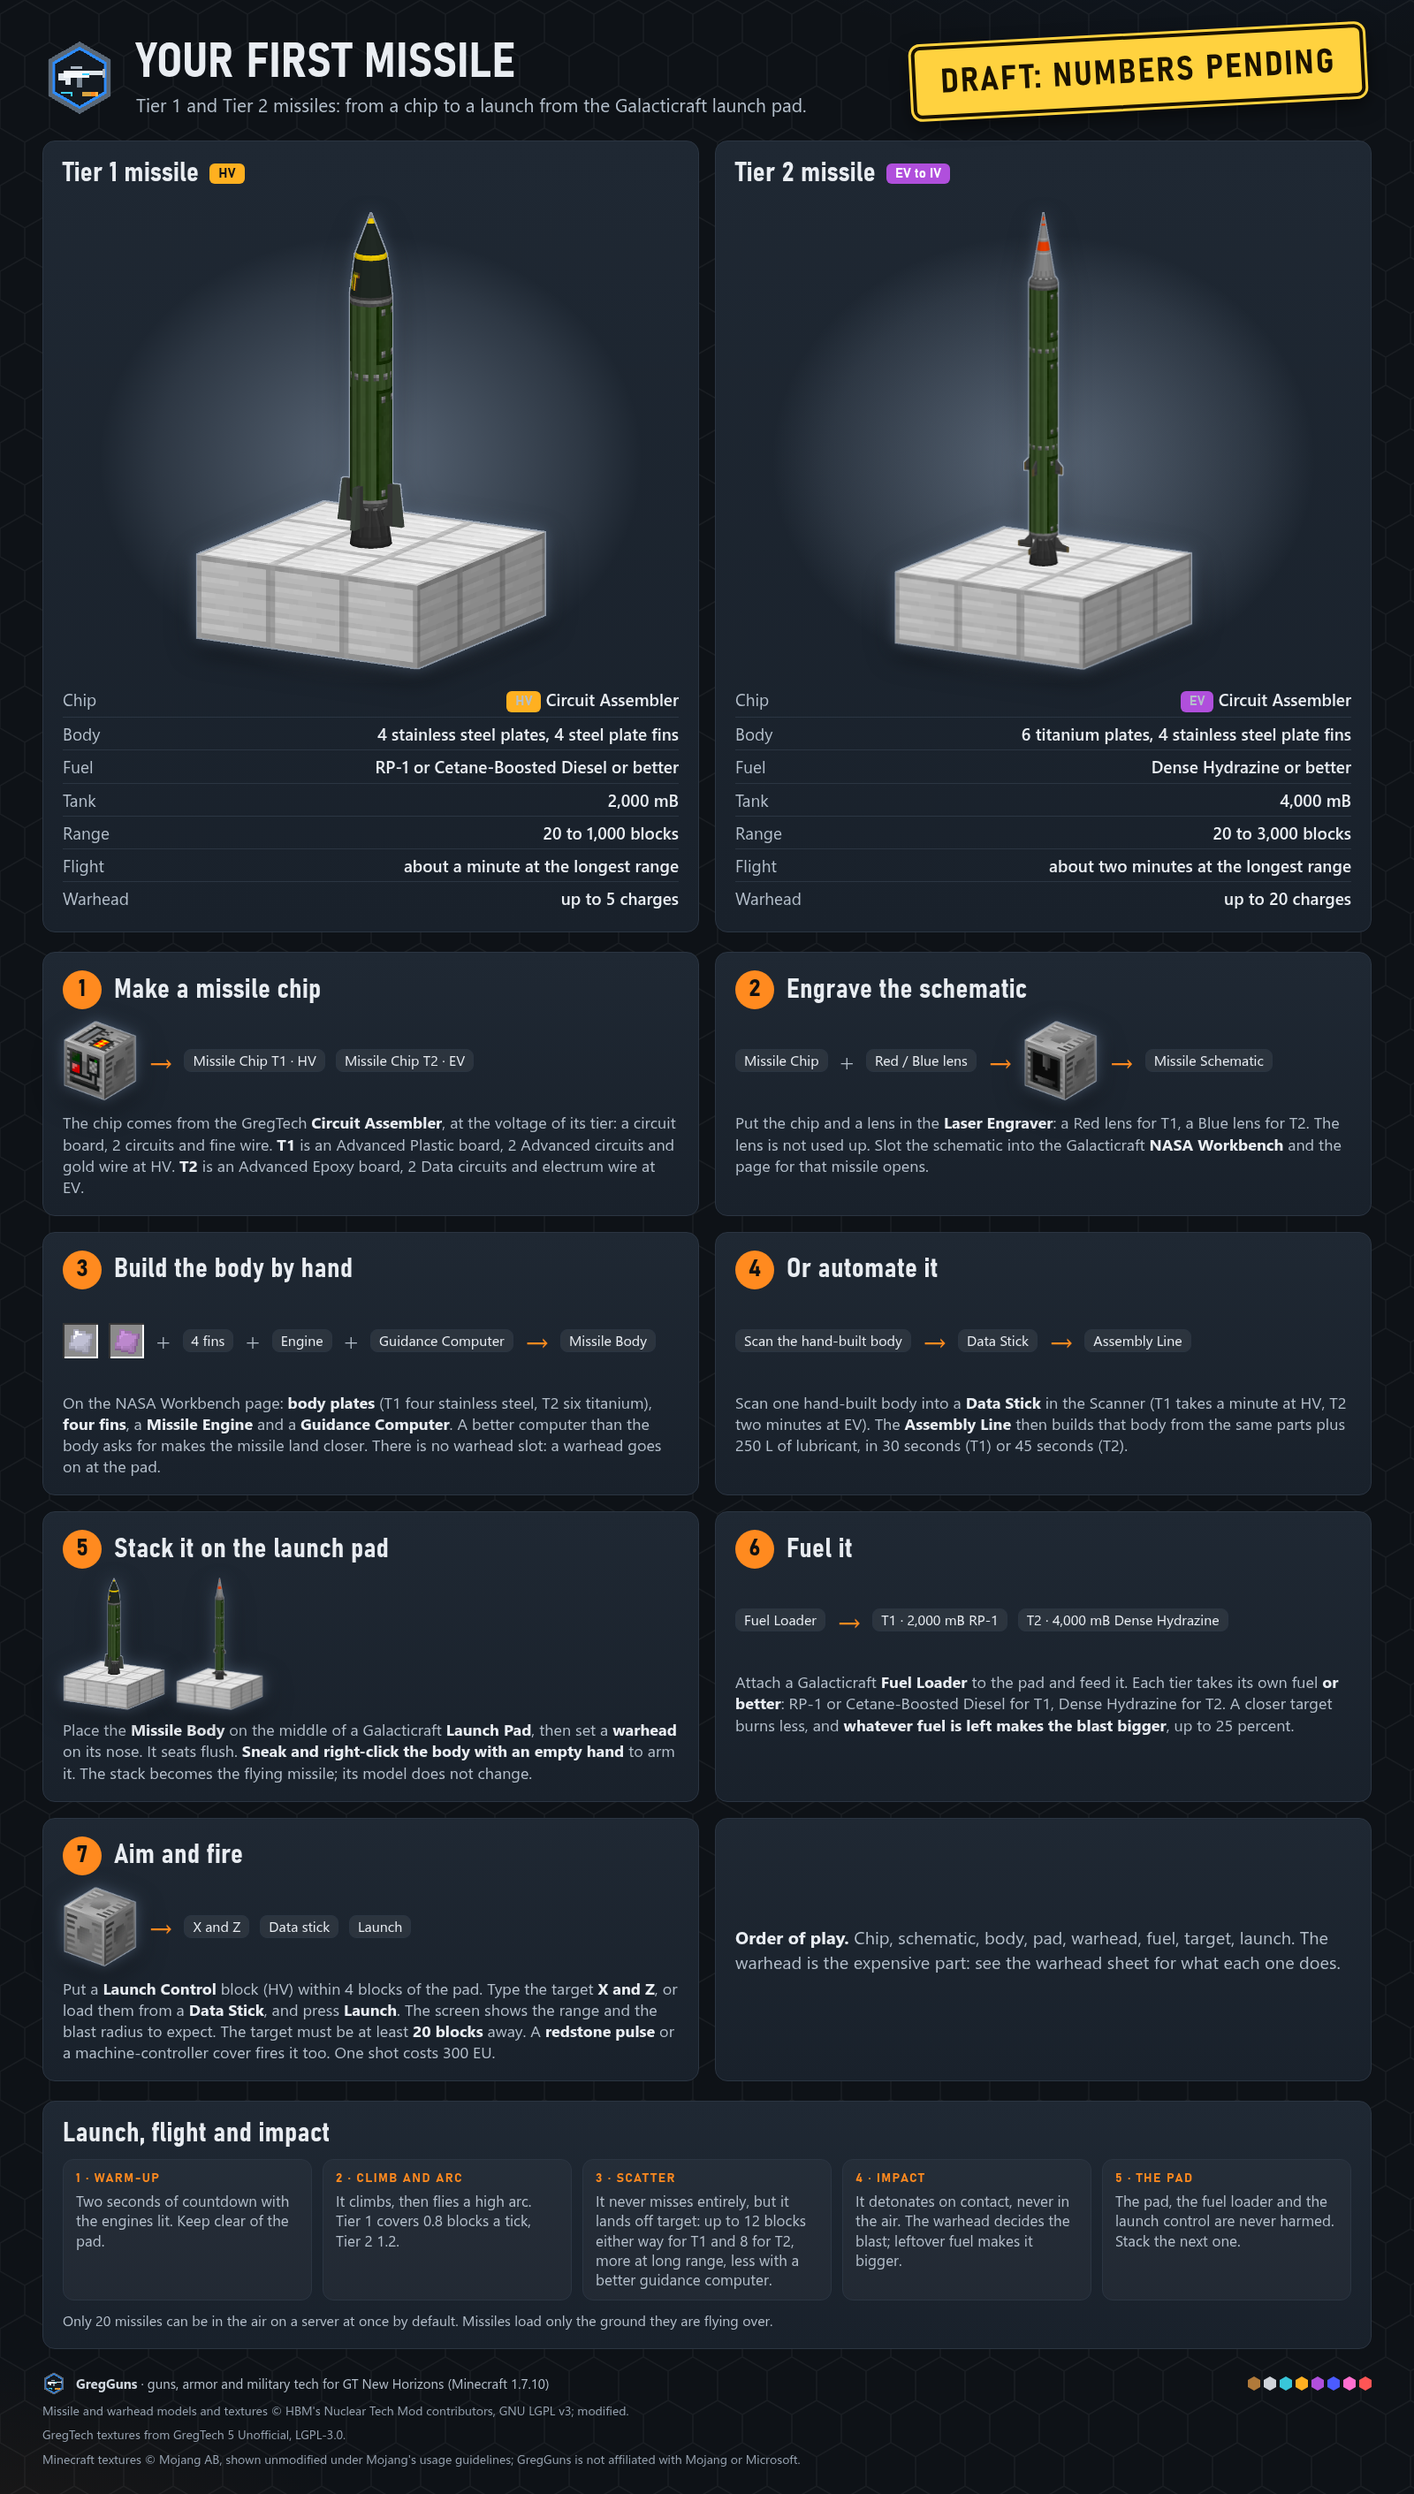
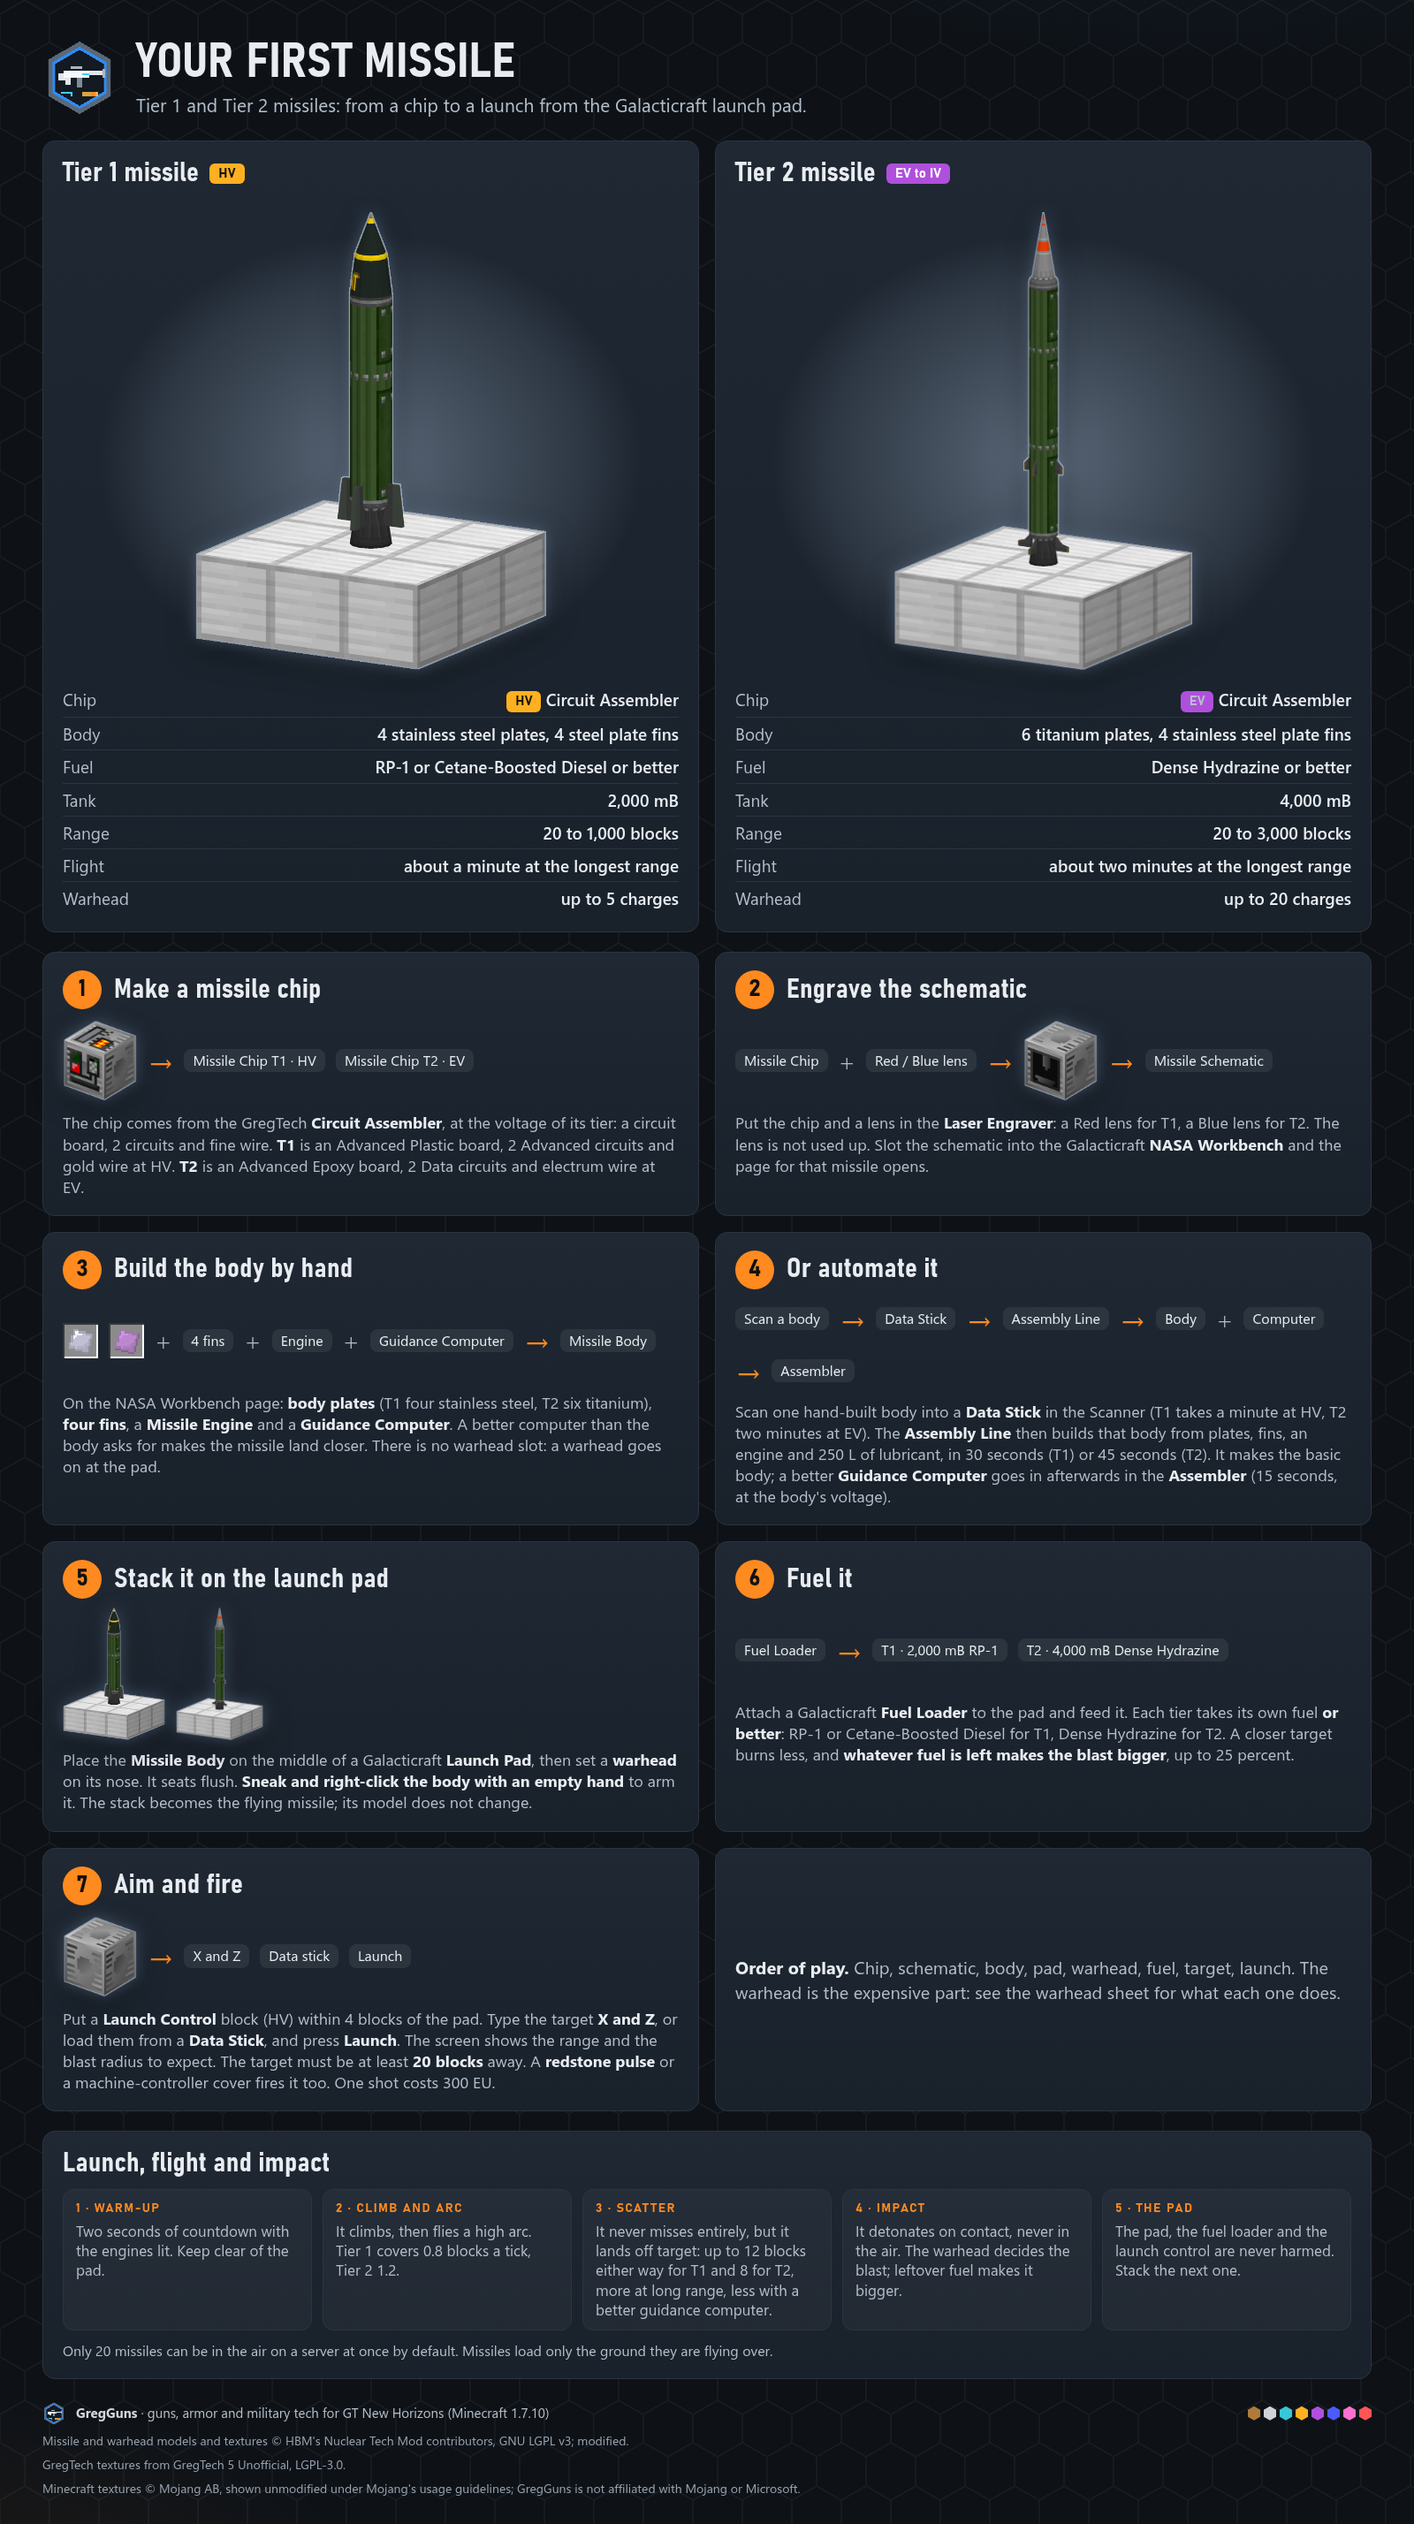
ICBM I2 fix: final icbm-first-missile sheet (numbers from code, stamp removed, Assembler fit), quest text

diff --git a/tools/asset-gen/infographics/pages_icbm_missile.py b/tools/asset-gen/infographics/pages_icbm_missile.py
@@ -1,8 +1,8 @@
 """The icbm-first-missile guide sheet: from a missile chip to the first launch from the Galacticraft pad (T1 and T2).
 
 The missile models are the shipped OBJ files (body plus warhead, the warhead seated on the body's nose exactly as the
-game seats it), drawn with render3d.obj_scene, the strict Forge reader. The sheet is a DRAFT (D50): its numbers come
-from the milestone's design notes, not yet from the code, and it carries the stamp until they are read from the code.
+game seats it), drawn with render3d.obj_scene, the strict Forge reader. The numbers are read from the I2 code
+(MissileTier, MissileBuildSpec, EntityMissile, MTELaunchControl, IcbmConfig); the draft stamp is gone (D50).
 Vanilla textures are the real Minecraft ones read from the jar at build time (D55). No Galacticraft texture is used
 (its license is "explicit permission", so it can't be redistributed in a committed sheet): the pad is drawn with
 vanilla iron blocks and named in the text.
@@ -29,7 +29,7 @@ from pages import MOJANG_CREDIT, gti, img, page_doc, slot  # noqa: E402
 NTM = K.ASSETS / "models/thirdparty/ntm"
 NTM_TEX = K.ASSETS / "textures/models/thirdparty/ntm"
 
-# Draft numbers (design notes of the I2 coders). Final: read from the code, then remove the stamp.
+# Numbers from the I2 code: MissileTier (fuel, range, speed, scatter), MissileBuildSpec (plates, fins, engine, caps).
 TIERS = {
     1: dict(body="missile_body_t1", warhead="warhead_t1", volt="HV", fuel="RP-1 or Cetane-Boosted Diesel", fuel_mb=2000, rng=1000, speed="0.8",
             flight="about a minute", scatter=12, plates="4 stainless steel", fins="4 steel", engine="Missile Engine Mk I", cap=5),
@@ -39,10 +39,7 @@ TIERS = {
 MIN_RANGE = 20
 
 CSS = """
-.ribbon { position: absolute; top: 40px; right: 56px; transform: rotate(-3deg); text-align: center;
-  background: #ffd23f; color: #1a1200; font-family: Bahnschrift, "Fira Sans Condensed", "Noto Sans", sans-serif; font-stretch: condensed;
-  font-weight: 800; font-size: 38px; letter-spacing: .06em; text-transform: uppercase; padding: 12px 28px 10px; border-radius: 10px;
-  border: 4px solid #1a1200; outline: 3px solid #ffd23f; box-shadow: 0 8px 22px rgba(0,0,0,.6); z-index: 5; }
+.stat .chip.t-HV, .stat .chip.t-MV { color: #1a1200; }
 .hero { display: grid; grid-template-columns: 1fr 1fr; gap: 18px; }
 .hero .spot { height: 560px; display: flex; align-items: flex-end; justify-content: center; padding-bottom: 14px; }
 .stat { display: flex; justify-content: space-between; gap: 14px; padding: 5px 0; border-bottom: 1px solid var(--line); font-size: 19px; }
@@ -124,9 +121,10 @@ def first_missile() -> str:
                "On the NASA Workbench page: <b>body plates</b> (T1 four stainless steel, T2 six titanium), <b>four fins</b>, a <b>Missile Engine</b> and a "
                "<b>Guidance Computer</b>. A better computer than the body asks for makes the missile land closer. There is no warhead slot: a warhead goes on at the pad.")
     s3b = _step(4, "Or automate it",
-                f"<span class='pill'>Scan the hand-built body</span>{arrow}<span class='pill'>Data Stick</span>{arrow}<span class='pill'>Assembly Line</span>",
+                f"<span class='pill'>Scan a body</span>{arrow}<span class='pill'>Data Stick</span>{arrow}<span class='pill'>Assembly Line</span>{arrow}<span class='pill'>Body</span>{plus}<span class='pill'>Computer</span>{arrow}<span class='pill'>Assembler</span>",
                 "Scan one hand-built body into a <b>Data Stick</b> in the Scanner (T1 takes a minute at HV, T2 two minutes at EV). The <b>Assembly Line</b> then builds that body "
-                "from the same parts plus 250 L of lubricant, in 30 seconds (T1) or 45 seconds (T2).")
+                "from plates, fins, an engine and 250 L of lubricant, in 30 seconds (T1) or 45 seconds (T2). It makes the basic body; "
+                "a better <b>Guidance Computer</b> goes in afterwards in the <b>Assembler</b> (15 seconds, at the body's voltage).")
     s4 = _step(5, "Stack it on the launch pad",
                f"{img(missile_on_pad(1, 100), h=150)}{img(missile_on_pad(2, 100), h=150)}",
                "Place the <b>Missile Body</b> on the middle of a Galacticraft <b>Launch Pad</b>, then set a <b>warhead</b> on its nose. It seats flush. "
@@ -151,7 +149,6 @@ def first_missile() -> str:
 <div class="steps">{s1}{s2}{s3}{s3b}{s4}{s5}{s6}<div class="card sc" style="justify-content:center"><div class="muted" style="font-size:20px;line-height:1.4"><b style="color:var(--txt)">Order of play.</b> Chip, schematic, body, pad, warhead, fuel, target, launch. The warhead is the expensive part: see the warhead sheet for what each one does.</div></div></div>
 {flight}"""
     return page_doc("Your First Missile", "Tier 1 and Tier 2 missiles: from a chip to a launch from the Galacticraft launch pad.", body, extra=CSS,
-                    overlay='<div class="ribbon">Draft: numbers pending</div>',
                     credit=["Missile and warhead models and textures © HBM's Nuclear Tech Mod contributors, GNU LGPL v3; modified.",
                             "GregTech textures from GregTech 5 Unofficial, LGPL-3.0.", MOJANG_CREDIT])
 

diff --git a/docs/assets/CREDITS.md b/docs/assets/CREDITS.md
@@ -27,7 +27,7 @@
 | infographics/questbook.png | Claude (Anthropic) via tools/asset-gen/infographics/build.py | HTML laid out in Python, PNG via Playwright + Edge; 3D renders of the mod's own models, textures and block layouts by tools/asset-gen/infographics/render3d.py; includes GregTech 5 Unofficial textures (hulls, hatches, frames, glass, material icons) read from the pack's GT jar | MIT, except the GregTech textures it shows (LGPL-3.0) | 2026-10-19 |
 | infographics/recipes-steam-and-lv.png | Claude (Anthropic) via tools/asset-gen/infographics/build.py | HTML laid out in Python, PNG via Playwright + Edge; 3D renders of the mod's own models, textures and block layouts by tools/asset-gen/infographics/render3d.py; includes GregTech 5 Unofficial textures (hulls, machine overlays, component and tool icons, material icons); vanilla ingredient icons are Mojang's textures, read unmodified from the vanilla 1.7.10 client jar at build time by tools/asset-gen/infographics/vanilla.py (not stored in the repo) and credited in the sheet footer | MIT, except the GregTech textures it shows (LGPL-3.0), and Mojang's Minecraft textures it shows (used under Mojang's usage guidelines) | 2026-10-25 |
 | infographics/icbm-warheads.png | Claude (Anthropic) via tools/asset-gen/infographics/build.py (pages_icbm.py) | HTML laid out in Python, PNG via Playwright; 3D renders of the shipped warhead OBJ models (HBM's Nuclear Tech Mod contributors, LGPL-3.0, modified; see warhead_t1 and warhead_t2 above) by tools/asset-gen/infographics/render3d.py; includes GregTech 5 Unofficial textures (hulls, machine overlays, casings, plate icons) read from the pack's GT jar; the TNT, Flint and Steel and Fire Charge icons are the real Minecraft textures, read from the Minecraft 1.7.10 client jar at build time and never stored in the repo (D55); numbers read from the code | MIT, except the NTM warhead art it shows (LGPL-3.0, credited in its footer), the GregTech textures (LGPL-3.0) and the Minecraft textures (© Mojang / Microsoft, shown under Mojang's usage guidelines and credited in its footer) | 2026-10-26 |
-| infographics/icbm-first-missile.png | Claude (Anthropic) via tools/asset-gen/infographics/build.py (pages_icbm_missile.py) | HTML laid out in Python, PNG via Playwright; 3D renders of the shipped missile body and warhead OBJ models (HBM's Nuclear Tech Mod contributors, LGPL-3.0, modified; see missile_body_t1, missile_body_t2, warhead_t1 and warhead_t2 above) by tools/asset-gen/infographics/render3d.py; includes GregTech 5 Unofficial textures (hulls, machine overlays, plate icons) read from the pack's GT jar; the iron block is the real Minecraft texture, read from the Minecraft 1.7.10 client jar at build time and never stored in the repo (D55); DRAFT: numbers from the design notes, pending the code | MIT, except the NTM warhead art it shows (LGPL-3.0, credited in its footer), the GregTech textures (LGPL-3.0) and the Minecraft textures (© Mojang / Microsoft, shown under Mojang's usage guidelines and credited in its footer) | 2026-10-26 |
+| infographics/icbm-first-missile.png | Claude (Anthropic) via tools/asset-gen/infographics/build.py (pages_icbm_missile.py) | HTML laid out in Python, PNG via Playwright; 3D renders of the shipped missile body and warhead OBJ models (HBM's Nuclear Tech Mod contributors, LGPL-3.0, modified; see missile_body_t1, missile_body_t2, warhead_t1 and warhead_t2 above) by tools/asset-gen/infographics/render3d.py; includes GregTech 5 Unofficial textures (hulls, machine overlays, plate icons) read from the pack's GT jar; the iron block is the real Minecraft texture, read from the Minecraft 1.7.10 client jar at build time and never stored in the repo (D55); numbers read from the code | MIT, except the NTM warhead art it shows (LGPL-3.0, credited in its footer), the GregTech textures (LGPL-3.0) and the Minecraft textures (© Mojang / Microsoft, shown under Mojang's usage guidelines and credited in its footer) | 2026-10-26 |
 
 ## Third-party assets
 

diff --git a/docs/gregguns-icbm-spec/DECISIONS.md b/docs/gregguns-icbm-spec/DECISIONS.md
@@ -75,7 +75,7 @@ The owner decided D1–D28 on 2026-10-20 and D29–D42, D47 and D50 on 2026-10-2
 | D61 | NASA Workbench has no warhead slot (amends D8) | Orchestrator, 2026-10-26, from the I2 build and review. The workbench page builds the **body** only: plates, engine, fins and guidance computer. The warhead is a separate block stacked on the nose on the pad (D31), so a slot would build something the player then has to take apart. The D8 slot table is struck through and points here. Assembler and Assembly Line recipes make the body as well (D64) |
 | D62 | `TierUpgrade` marker (orchestrator, 2026-10-26) | Guidance computers outrank their body by design (D24), but the GT recipe-output checks reject a higher-tier input in a lower-tier recipe. A `TierUpgrade` marker on the guidance computer item says "this one may be fitted above its tier". Without the marker a higher-tier input still fails, which a unit test pins |
 | D63 | Cost reading (orchestrator, 2026-10-26, from the I2 review) | D34 says a missile costs about one launch of its tier's GC rocket. The I2 numbers put body plus fuel at about one launch; **the warhead is the expensive part**, as D34 intends, so the total reads above one launch only because the warhead is counted. **No trim now.** If the full-pack review finds the body dear, trim the **fins first**, then the engine |
-| D64 | Body recipes: Assembly Line makes guidance 0, an Assembler fits the computer (orchestrator, 2026-10-26, I2 review finding 1) | GT's scanner keeps one Assembly Line recipe per research item (the first match), so one recipe per guidance computer sharing a research item left Mk II and Mk III unresearchable. **The Assembly Line makes only the guidance-0 body of each tier.** A separate **Assembler** recipe fits a guidance computer into a body (body plus computer gives a body with that guidance). Each Assembly Line recipe has a unique research item, which a test checks against the scanner |
+| D64 | Body recipes: Assembly Line makes guidance 0, an Assembler fits the computer (orchestrator, 2026-10-26, I2 review finding 1) | GT's scanner keeps one Assembly Line recipe per research item (the first match), so one recipe per guidance computer sharing a research item left Mk II and Mk III unresearchable. **The Assembly Line makes only the guidance-0 body of each tier.** A separate **Assembler** recipe fits a guidance computer into a body (body plus computer gives a body with that guidance; 15 s at the body's voltage, programmed circuit = tier number, only where the guidance is above 0: T1 takes Mk II or Mk III, T2 takes Mk III). Each Assembly Line recipe has a unique research item, which a test checks against the scanner |
 | D65 | Launch Control tooltip (orchestrator, 2026-10-26, from the I2 review) | The Launch Control carries a Shift tooltip through GT's `ISecondaryDescribable`, with `@SkipGenerateDescription` so GT does not write its lines into `GregTech.lang`; the text is our lang keys (D41). The I2 build's "no Shift gate" claim was a misreading of GT and is withdrawn |
 | D66 | Galacticraft textures stay off committed sheets (orchestrator, 2026-10-26) | Galacticraft's textures are licensed "Explicit Permission", which D47 does not accept. They are never copied into the repo and never drawn on a committed guide sheet; the pad on the first-missile sheet is drawn from vanilla blocks (D55). The mod still renders its own pad in game |
 | D67 | Licensed placeholder art (orchestrator, 2026-10-26) | The I2 placeholders (Missile Engine Mk I/II, Guidance Computer Mk I to III, missile chip and schematic T1/T2, Launch Control machine overlays) are replaced by licensed art per D47, from NTM (LGPL-3.0) first. Sources and licenses are in `docs/assets/CREDITS.md`. The cruise launcher is not in I2; the owner decides it at alpha |
